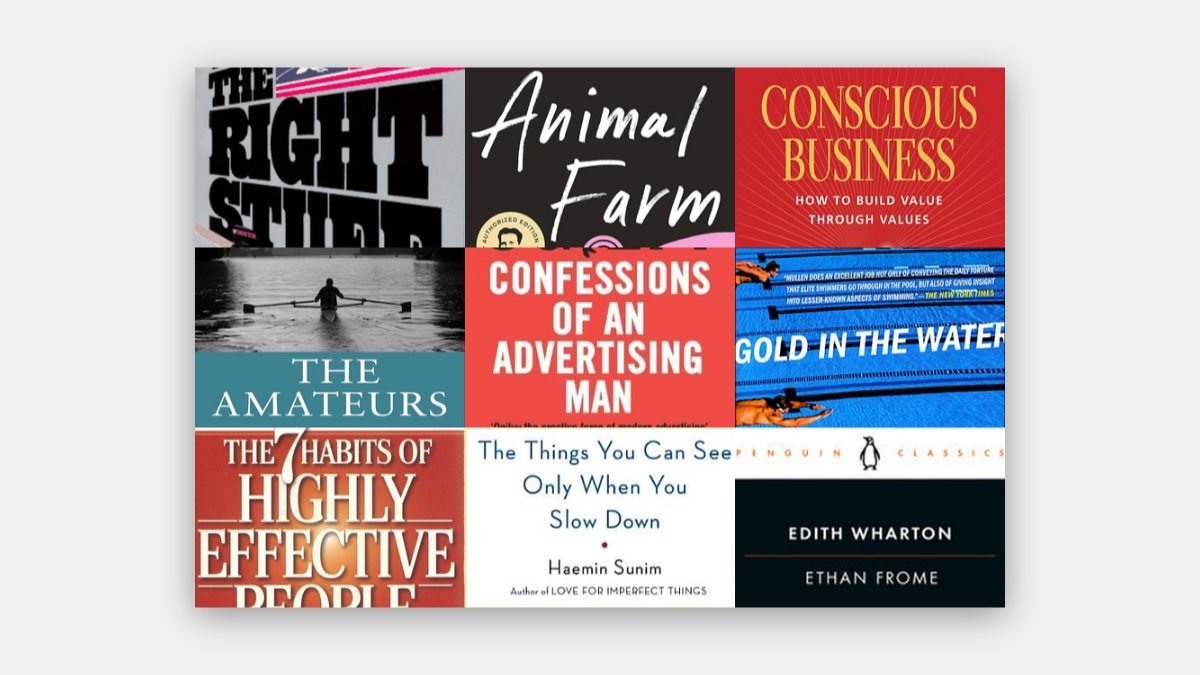
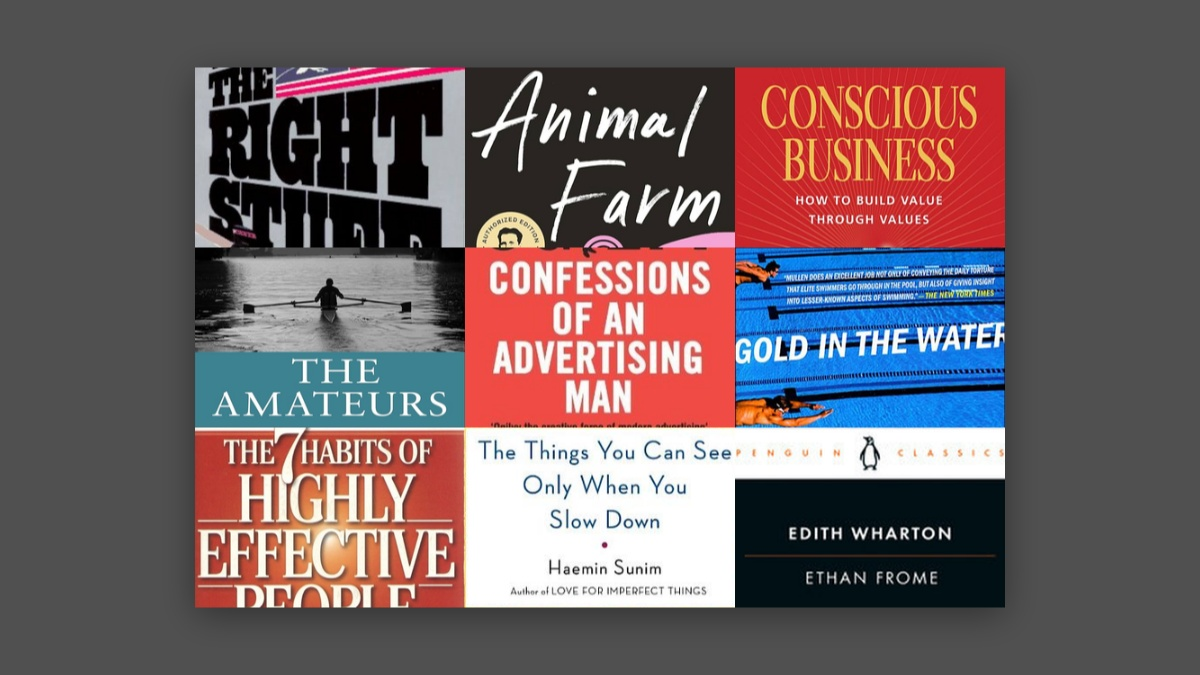
Update social sharing images with charcoal background and improved descriptions
- Change background color to charcoal gray (#505050) for both books and films
- Update descriptions to be more engaging and meet LinkedIn's 100+ character requirement
- Add cache-busting to image URLs to help with X/Twitter cache issues
- Update React component to use -quilt-social.jpg images
- Both /films and /books now use optimized social images with consistent styling

diff --git a/frontend/preview-social-image.html b/frontend/preview-social-image.html
@@ -1,0 +1,109 @@
+<!DOCTYPE html>
+<html lang="en">
+<head>
+    <meta charset="UTF-8">
+    <meta name="viewport" content="width=device-width, initial-scale=1.0">
+    <title>Preview Social Sharing Image</title>
+    <style>
+        body {
+            font-family: -apple-system, BlinkMacSystemFont, 'Segoe UI', sans-serif;
+            padding: 40px;
+            background: #f5f5f5;
+            display: flex;
+            flex-direction: column;
+            align-items: center;
+            gap: 30px;
+        }
+        h1 {
+            margin: 0;
+            color: #333;
+        }
+        .preview-container {
+            background: white;
+            padding: 20px;
+            border-radius: 8px;
+            box-shadow: 0 2px 8px rgba(0,0,0,0.1);
+        }
+        .preview-card {
+            width: 600px;
+            border: 1px solid #ddd;
+            border-radius: 8px;
+            overflow: hidden;
+            background: white;
+        }
+        .preview-image {
+            width: 100%;
+            height: auto;
+            display: block;
+        }
+        .preview-text {
+            padding: 16px;
+        }
+        .preview-title {
+            font-size: 18px;
+            font-weight: 600;
+            color: #333;
+            margin: 0 0 8px 0;
+        }
+        .preview-url {
+            font-size: 14px;
+            color: #666;
+            margin: 0;
+        }
+        .info {
+            background: white;
+            padding: 20px;
+            border-radius: 8px;
+            box-shadow: 0 2px 8px rgba(0,0,0,0.1);
+            max-width: 600px;
+        }
+        .info h2 {
+            margin-top: 0;
+            color: #333;
+        }
+        .info p {
+            color: #666;
+            line-height: 1.6;
+        }
+        .color-info {
+            background: #202124;
+            color: white;
+            padding: 10px;
+            border-radius: 4px;
+            margin-top: 10px;
+        }
+    </style>
+</head>
+<body>
+    <h1>Social Sharing Image Preview</h1>
+    
+    <div class="preview-container">
+        <div class="preview-card">
+            <img src="public/books-quilt-social.jpg" alt="Books quilt social image" class="preview-image" />
+            <div class="preview-text">
+                <p class="preview-title">Every book I've read (700+)</p>
+                <p class="preview-url">jamesraybould.me/books</p>
+            </div>
+        </div>
+    </div>
+    
+    <div class="info">
+        <h2>Image Details</h2>
+        <p><strong>File:</strong> public/books-quilt-social.jpg</p>
+        <p><strong>Dimensions:</strong> 1200x675px (optimized for LinkedIn/Twitter)</p>
+        <p><strong>Quilt Scale:</strong> 80% of image size with padding</p>
+        <p><strong>Background:</strong> Charcoal gray (RGB ~80, 80, 80 / #505050)</p>
+        <p><strong>Drop Shadow:</strong> 30px blur, 8px offset</p>
+        <p><strong>File Size:</strong> ~193KB</p>
+        <div class="color-info" style="background: #505050;">Background color preview (Charcoal)</div>
+    </div>
+    
+    <div class="info">
+        <h2>How to View</h2>
+        <p>You can also open the image directly:</p>
+        <p><code>frontend/public/books-quilt-social.jpg</code></p>
+        <p>Or open this HTML file in your browser to see the preview above.</p>
+    </div>
+</body>
+</html>
+

diff --git a/frontend/update-meta-tags.js b/frontend/update-meta-tags.js
@@ -5,17 +5,20 @@ import path from 'path';
 const distDir = path.join(process.cwd(), 'dist');
 
 // Meta tag configurations
+// Add cache-busting version to force refresh
+const CACHE_VERSION = 'v2';
+
 const filmsMeta = {
   title: 'Every film I\'ve seen (1700+)',
-  description: 'Explore my collection of films with ratings and reviews.',
-  image: 'https://jamesraybould.me/films-quilt-social.jpg',
+  description: 'Browse my collection of over 1700 films I\'ve watched, each with my own J-Rayting. And if you\'re super geeky, you can filter by Rotten Tomatoes score, Year, genre, and more.',
+  image: `https://jamesraybould.me/films-quilt-social.jpg?${CACHE_VERSION}`,
   url: 'https://jamesraybould.me/films'
 };
 
 const booksMeta = {
   title: 'Every book I\'ve read (700+)',
-  description: 'Explore my collection of books with ratings and reviews.',
-  image: 'https://jamesraybould.me/books-quilt-social.jpg',
+  description: 'Browse my personal collection of over 700 books I\'ve read, each with my own J-Rayting. And if you\'re super geeky, you can skim my short summaries or even dig into my comprehensive Notion pages with all my Amazon Kindle highlights.',
+  image: `https://jamesraybould.me/books-quilt-social.jpg?${CACHE_VERSION}`,
   url: 'https://jamesraybould.me/books'
 };
 

diff --git a/frontend/src/ItemsApp.jsx b/frontend/src/ItemsApp.jsx
@@ -39,8 +39,10 @@ function ItemsApp({ config }) {
     const baseUrl = 'https://jamesraybould.me'
     const pageUrl = `${baseUrl}/${config.type}`
     const pageTitle = config.pageTitles.main
-    const description = `Explore my collection of ${config.titlePlural.toLowerCase()} with ratings and reviews.`
-    const imageUrl = `${baseUrl}/${config.type}-quilt.jpg`
+    const description = config.type === 'films' 
+      ? 'Browse my collection of over 1700 films I\'ve watched, each with my own J-Rayting. And if you\'re super geeky, you can filter by Rotten Tomatoes score, Year, genre, and more.'
+      : 'Browse my personal collection of over 700 books I\'ve read, each with my own J-Rayting. And if you\'re super geeky, you can skim my short summaries or even dig into my comprehensive Notion pages with all my Amazon Kindle highlights.'
+    const imageUrl = `${baseUrl}/${config.type}-quilt-social.jpg?v2`
 
     // Helper function to update or create meta tag
     const updateMetaTag = (property, content, isProperty = true) => {

diff --git a/frontend/create-social-image.js b/frontend/create-social-image.js
@@ -9,7 +9,7 @@ import { createCanvas, loadImage } from 'canvas';
 const SOCIAL_WIDTH = 1200;
 const SOCIAL_HEIGHT = 675;
 const QUILT_SCALE = 0.80; // Quilt takes up 80% of the image (5% smaller)
-const BACKGROUND_COLOR = '#f0f0f0'; // Lighter gray background
+const BACKGROUND_COLOR = '#505050'; // Charcoal gray background (RGB ~80, 80, 80)
 
 async function createSocialImage(quiltPath, outputPath) {
   try {
